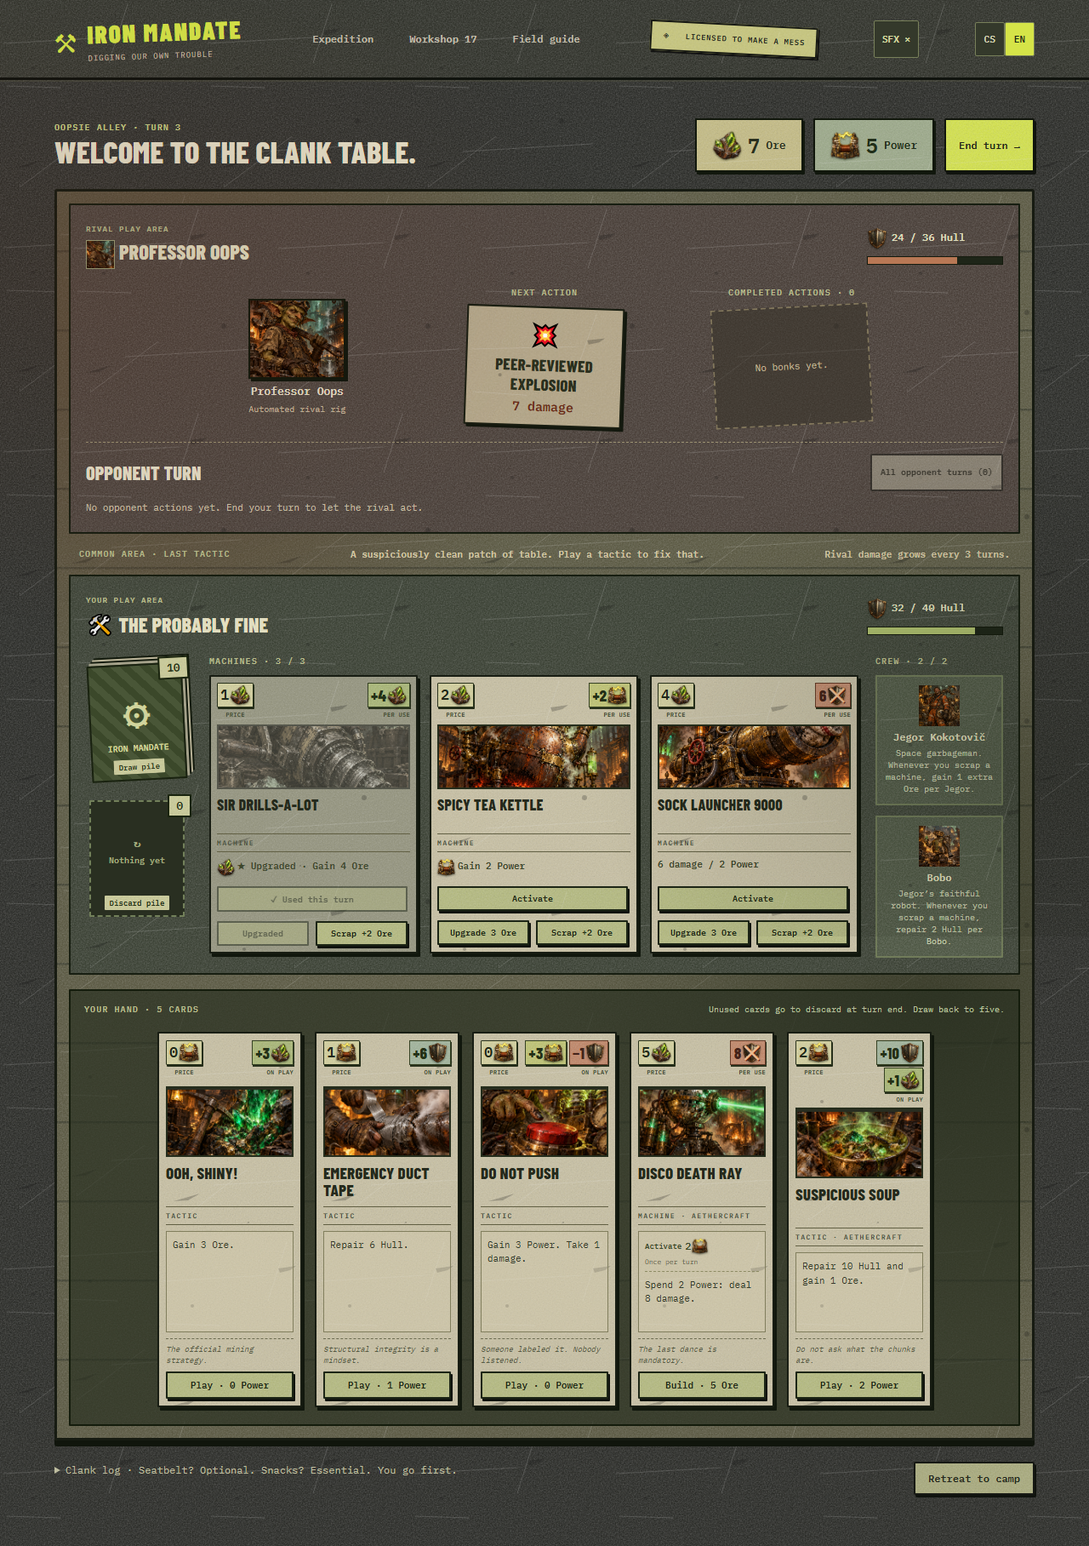
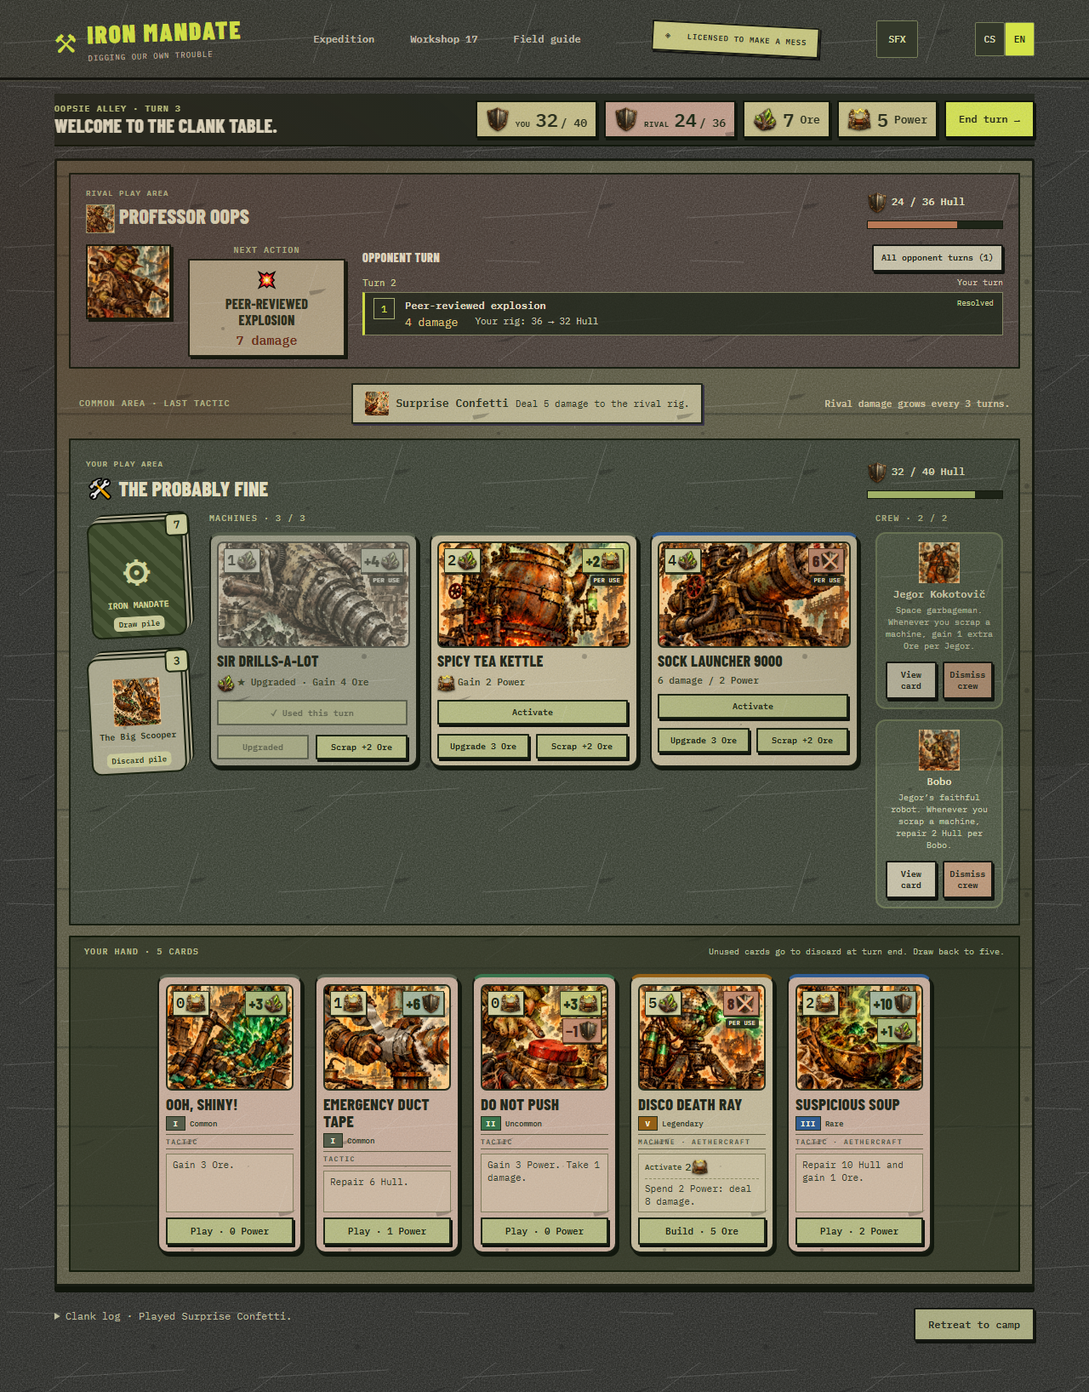
Lighter JPG art, bigger card previews, compact battle table, card art overlay

diff --git a/index.html b/index.html
@@ -1,3 +1,3 @@
 <!doctype html>
-<html lang="en"><head><meta charset="utf-8"><meta name="viewport" content="width=device-width,initial-scale=1"><title>Iron Mandate</title><link rel="stylesheet" href="css/style.css"><link rel="stylesheet" href="css/playful.css"><link rel="stylesheet" href="css/table.css"><link rel="stylesheet" href="css/portrait.css"><link rel="stylesheet" href="css/punk.css"><link rel="stylesheet" href="css/locale.css"><link rel="stylesheet" href="css/opponent.css"><link rel="stylesheet" href="css/painted.css"><link rel="stylesheet" href="css/resource-icons.css"><link rel="stylesheet" href="css/sound.css"><link rel="stylesheet" href="css/card-layout.css"><link rel="stylesheet" href="css/rarity.css"><link rel="stylesheet" href="css/crew-management.css"></head>
-<body><header><a class="brand" href="#" aria-label="Iron Mandate home">⚒ <span>IRON MANDATE<small>DIGGING OUR OWN TROUBLE</small></span></a><nav><button data-view="campaign">Expedition</button><button data-view="collection">Workshop <span id="collection-count"></span></button><button id="help">Field guide</button></nav><div class="pilot">◈ &nbsp; LICENSED TO MAKE A MESS</div></header><main id="app"></main><dialog id="guide"><button class="close" aria-label="Close guide">×</button><div class="eyebrow">PROSPECTOR'S HANDBOOK</div><h2>Welcome, future workplace incident.</h2><p>Destroy the rival rig before it destroys yours. Each turn, draw to five cards and gain 3 Power. Ore carries over; Power refreshes each turn.</p><p><b>Build</b> machines with Ore. Each machine activates once per turn, starting on the turn after it is built. Drills produce Ore, boilers produce Power, and weapons damage the rival rig.</p><p>Your rig holds three machines and two crew. Upgrade machines for 3 Ore to improve their output. Scrap a machine for 1 Ore to free its slot. Crew bonuses stack.</p><p>Tactics cost Power and work immediately. End your turn to let the rival act. Your discard pile reshuffles when your draw pile runs out.</p><p>Win to choose a reward. In the Workshop, customize your 15-card deck, up to two copies per card. Progress saves in this browser.</p></dialog><div id="toast" role="status"></div><script src="js/game.js"></script><script src="js/salvage-crew.js"></script><script src="js/table.js"></script><script src="js/portrait.js"></script><script src="js/punk.js"></script><script src="js/opponent.js"></script><script src="js/painted.js"></script><script src="js/resource-icons.js"></script><script src="js/salvage-actions.js"></script><script src="js/sound.js"></script><script src="js/card-layout.js"></script><script src="js/rarity.js"></script><script src="js/workshop-detail.js"></script><script src="js/crew-management.js"></script><script src="js/locale.js"></script></body></html>
+<html lang="en"><head><meta charset="utf-8"><meta name="viewport" content="width=device-width,initial-scale=1"><title>Iron Mandate</title><link rel="stylesheet" href="css/style.css"><link rel="stylesheet" href="css/playful.css"><link rel="stylesheet" href="css/table.css"><link rel="stylesheet" href="css/portrait.css"><link rel="stylesheet" href="css/punk.css"><link rel="stylesheet" href="css/locale.css"><link rel="stylesheet" href="css/opponent.css"><link rel="stylesheet" href="css/painted.css"><link rel="stylesheet" href="css/resource-icons.css"><link rel="stylesheet" href="css/sound.css"><link rel="stylesheet" href="css/card-layout.css"><link rel="stylesheet" href="css/rarity.css"><link rel="stylesheet" href="css/crew-management.css"><link rel="stylesheet" href="css/card-preview.css"><link rel="stylesheet" href="css/card-types.css"><link rel="stylesheet" href="css/battle-compact.css"><link rel="stylesheet" href="css/card-art.css"></head>
+<body><header><a class="brand" href="#" aria-label="Iron Mandate home">⚒ <span>IRON MANDATE<small>DIGGING OUR OWN TROUBLE</small></span></a><nav><button data-view="campaign">Expedition</button><button data-view="collection">Workshop <span id="collection-count"></span></button><button id="help">Field guide</button></nav><div class="pilot">◈ &nbsp; LICENSED TO MAKE A MESS</div></header><main id="app"></main><dialog id="guide"><button class="close" aria-label="Close guide">×</button><div class="eyebrow">PROSPECTOR'S HANDBOOK</div><h2>Welcome, future workplace incident.</h2><p>Destroy the rival rig before it destroys yours. Each turn, draw to five cards and gain 3 Power. Ore carries over; Power refreshes each turn.</p><p><b>Build</b> machines with Ore. Each machine activates once per turn, starting on the turn after it is built. Drills produce Ore, boilers produce Power, and weapons damage the rival rig.</p><p>Your rig holds three machines and two crew. Upgrade machines for 3 Ore to improve their output. Scrap a machine for 1 Ore to free its slot. Crew bonuses stack.</p><p>Tactics cost Power and work immediately. End your turn to let the rival act. Your discard pile reshuffles when your draw pile runs out.</p><p>Win to choose a reward. In the Workshop, customize your 15-card deck, up to two copies per card. Progress saves in this browser.</p></dialog><div id="toast" role="status"></div><script src="js/game.js"></script><script src="js/salvage-crew.js"></script><script src="js/table.js"></script><script src="js/portrait.js"></script><script src="js/punk.js"></script><script src="js/opponent.js"></script><script src="js/painted.js"></script><script src="js/resource-icons.js"></script><script src="js/salvage-actions.js"></script><script src="js/sound.js"></script><script src="js/card-layout.js"></script><script src="js/rarity.js"></script><script src="js/workshop-detail.js"></script><script src="js/crew-management.js"></script><script src="js/card-preview.js"></script><script src="js/battle-compact.js"></script><script src="js/locale.js"></script></body></html>

diff --git a/css/battle-compact.css b/css/battle-compact.css
@@ -1,0 +1,62 @@
+/* Denser battle table: sticky turn bar, one-row rival area, slim hand cards. */
+.battle-top{position:sticky;top:0;z-index:6;background:#24291ff5;backdrop-filter:blur(8px);margin:0 0 14px;padding:8px 0;border-bottom:2px solid #11180c}
+.battle-top h2{font-size:22px}
+.battle-top .resources{gap:8px}
+.battle-top .resource{padding:4px 10px}
+.battle-top .resource>.resource-icon{width:28px;height:28px}
+.battle-top .resource b{font-size:22px}
+.battle-top #end{min-height:44px}
+.hull-chip>span{display:flex;align-items:baseline;gap:3px}
+.hull-chip small{font-size:9px;letter-spacing:.5px;text-transform:uppercase;margin-right:3px}
+.hull-chip.hull-rival{background-color:#c09a86}
+
+/* Rival area: portrait, next action and the live opponent turn side by side. */
+.opponent-side{padding:12px 18px}
+.opponent-side .table-status{margin-bottom:8px}
+.opponent-layout{grid-template-columns:auto auto minmax(0,1fr);gap:20px;max-width:none;align-items:start}
+.rival-rig>strong,.rival-rig>span:last-child,.opponent-layout .action-pile{display:none}
+.rival-portrait .painted-art{width:96px;height:84px}
+.intent-zone .zone-label{margin-bottom:4px}
+.intent-card{min-height:0;padding:8px 14px;transform:none}
+.intent-card .intent-icon{font-size:20px}
+.intent-card h3{font-size:16px}
+.opponent-layout .opponent-sequence{margin:0;padding:0;border:0}
+.opponent-layout .sequence-heading{margin-bottom:6px}
+.opponent-layout .sequence-heading h3{font-size:14px;letter-spacing:.5px}
+.opponent-layout .sequence-heading button{min-height:32px;padding:4px 9px}
+.opponent-layout .opponent-turn-label{margin:4px 0}
+.opponent-layout .opponent-event{padding:6px 10px}
+.opponent-layout .event-effect{margin-top:3px}
+
+/* Hand: the big preview holds the full card, so hand cards drop flavor and spacing. */
+.hand-zone{margin-top:12px;padding-top:10px}
+.hand-zone .printed-card .art{height:72px}
+.hand-zone .printed-card h3{min-height:0;margin:6px 0 3px}
+.hand-zone .printed-card .type{min-height:0;padding:3px 0;margin-bottom:5px}
+.hand-zone .printed-card .rules-box{min-height:0;padding:5px 7px;margin-bottom:6px}
+.hand-zone .printed-card .rules-box p{line-height:1.35}
+.hand-zone .printed-card .activation-line{margin-bottom:4px;padding-bottom:4px}
+.hand-zone .printed-card .once-per-turn,.hand-zone .printed-card .flavor{display:none}
+.hand-zone .printed-card .rarity-label{margin-bottom:3px}
+
+@media(max-width:650px){
+ .battle-top{padding:6px 4px 8px;margin:0}
+ .battle-top .resources{grid-template-columns:repeat(4,1fr) 1.3fr;gap:5px}
+ .battle-top .resource{padding:4px;flex-direction:column;gap:1px;font-size:9px}
+ .battle-top .resource>.resource-icon{width:20px;height:20px}
+ .battle-top .resource b{font-size:17px}
+ .battle-top #end{font-size:12px;padding:6px}
+ .hull-chip small{display:none}
+ .opponent-layout{grid-template-columns:auto minmax(0,1fr);gap:10px}
+ .opponent-layout .opponent-sequence{grid-column:1/-1}
+ .rival-rig{grid-column:auto;flex-direction:column}
+ .rival-portrait .painted-art{width:64px;height:56px}
+ .intent-card{max-width:none}
+}
+
+/* Built machines: the preview shows type and rarity, so the table card keeps only what you act on. */
+body.in-battle main{padding-top:16px}
+.installed .printed-card .type,.installed .printed-card .rarity-label{display:none}
+.installed .printed-card h3{min-height:0;margin:6px 0 4px}
+.installed .printed-card .installed-output{min-height:0;margin:2px 0 6px}
+.player-side .table-status{margin-bottom:8px}

diff --git a/js/card-layout.js b/js/card-layout.js
@@ -19,12 +19,12 @@ function cardEffects(key,level=0){
 function effectIcon(kind){return kind==='damage'?`<span class="damage-icon">${resourceIcon('hull')}<span aria-hidden="true">✕</span></span>`:resourceIcon(kind)}
 function effectBadges(key,level=0){
  const effect=cardEffects(key,level);
- return `<div class="card-yield"><div class="yield-values">${effect.items.map(item=>`<span class="effect-badge effect-${item.kind} ${item.sign==='−'?'effect-loss':''}" aria-label="${item.sign}${item.amount} ${item.kind==='damage'?'damage':item.kind==='hull'?'Hull':item.kind==='ore'?'Ore':'Power'}"><b>${item.sign}${item.amount}</b>${effectIcon(item.kind)}</span>`).join('')}</div><span class="effect-timing">${effect.timing}</span></div>`;
+ return `<div class="card-yield"><div class="yield-values">${effect.items.map(item=>`<span class="effect-badge effect-${item.kind} ${item.sign==='−'?'effect-loss':''}" aria-label="${item.sign}${item.amount} ${item.kind==='damage'?'damage':item.kind==='hull'?'Hull':item.kind==='ore'?'Ore':'Power'}"><b>${item.sign}${item.amount}</b>${effectIcon(item.kind)}</span>`).join('')}</div><span class="effect-timing${effect.timing==='ON PLAY'?' timing-on-play':''}">${effect.timing}</span></div>`;
 }
 card=function(key,action='',extra=''){
  const c=CARDS[key],kind=c.type==='tactic'?'power':'ore',label=kind==='ore'?'Ore':'Power';
  const activation=c.type==='machine'?`<div class="activation-line"><span>Activate</span><span class="activation-payment">${c.activation?`${c.activation} ${resourceIcon('power')}`:'Free'}</span><span class="once-per-turn">Once per turn</span><span class="once-per-turn">New machines wait one turn</span></div>`:'';
- return `<article class="card printed-card ${c.theme||c.type}" data-card-key="${key}"><div class="card-corners"><div class="price-corner"><span class="cost illustrated-cost" aria-label="${c.cost} ${label}"><b>${c.cost}</b>${resourceIcon(kind)}</span><span class="price-label">PRICE</span></div>${effectBadges(key)}</div><div class="art" aria-hidden="true"><span class="card-icon">${c.symbol}</span></div><h3>${c.name}</h3><div class="type">${c.type}${c.theme?' · Aethercraft':''}</div><div class="rules-box">${activation}<p>${c.text}</p></div><div class="flavor">${FLAVORS[key]||''}</div>${action}${extra}</article>`;
+ return `<article class="card printed-card ${c.theme||c.type}" data-card-key="${key}" data-card-type="${c.type}"><div class="art"><span class="card-icon" aria-hidden="true">${c.symbol}</span><div class="card-corners"><div class="price-corner"><span class="cost illustrated-cost" aria-label="${c.cost} ${label}"><b>${c.cost}</b>${resourceIcon(kind)}</span><span class="price-label">PRICE</span></div>${effectBadges(key)}</div></div><h3>${c.name}</h3><div class="type">${c.type}${c.theme?' · Aethercraft':''}</div><div class="rules-box">${activation}<p>${c.text}</p></div><div class="flavor">${FLAVORS[key]||''}</div>${action}${extra}</article>`;
 };
 const battleBeforeCardLayout=renderBattle;
 renderBattle=function(){

diff --git a/js/locale.js b/js/locale.js
@@ -1,6 +1,6 @@
 /* Localize rendered text only: card IDs, save data, and rules remain language-neutral. */
 const CZECH={
- 'Expedition':'Výprava','Workshop':'Dílna','Field guide':'Průvodce','DIGGING OUR OWN TROUBLE':'KOPÁME SI VLASTNÍ PRŮŠVIH','LICENSED TO MAKE A MESS':'POVOLENÍ DĚLAT BORDEL',
+ 'Expedition':'Výprava','YOU':'TY','RIVAL':'SOUPEŘ','Workshop':'Dílna','Field guide':'Průvodce','DIGGING OUR OWN TROUBLE':'KOPÁME SI VLASTNÍ PRŮŠVIH','LICENSED TO MAKE A MESS':'POVOLENÍ DĚLAT BORDEL',
  "PROSPECTOR'S HANDBOOK":'PŘÍRUČKA PROSPEKTORA','Welcome, future workplace incident.':'Vítej, budoucí pracovní úraze.',
  'Destroy the rival rig before it destroys yours. Each turn, draw to five cards and gain 3 Power. Ore carries over; Power refreshes each turn.':'Znič soupeřův stroj dřív, než zničí ten tvůj. Každé kolo si dober do pěti karet a získej 3 energii. Ruda zůstává do dalších kol; energie se každé kolo obnoví.',
  ' machines with Ore. Each machine activates once per turn, starting on the turn after it is built. Drills produce Ore, boilers produce Power, and weapons damage the rival rig.':' stroje za rudu. Každý stroj můžeš aktivovat jednou za kolo, a to až od následujícího kola po postavení. Vrtáky těží rudu, kotle vyrábějí energii a zbraně poškozují soupeřův stroj.',
@@ -85,7 +85,7 @@ function czechResourceForm(amount,kind){
 function czechQuantities(text){
  return text.replace(/(\d+)\s+(?:ruda|rudu|rudy|rud)(?![\p{L}])/gu,(_,n)=>`${n} ${czechResourceForm(n,'ore')}`)
   .replace(/(\d+)\s+(?:energie|energii)(?![\p{L}])/gu,(_,n)=>`${n} ${czechResourceForm(n,'power')}`)
-  .replace(/(\d+)\s+karet(?![\p{L}])/gu,(_,n)=>`${n} ${Number(n)===1?'karta':Number(n)>=2&&Number(n)<=4?'karty':'karet'}`);
+  .replace(/(\d+)\s+(karet|KARET)(?![\p{L}])/gu,(_,n,word)=>{const form=Number(n)===1?'karta':Number(n)>=2&&Number(n)<=4?'karty':'karet';return `${n} ${word==='KARET'?form.toUpperCase():form}`});
 }
 function translateText(value,heroTitle=false){
  if(language!=='cs')return value;

diff --git a/css/card-art.css b/css/card-art.css
@@ -1,0 +1,26 @@
+/* Price and effect badges sit on top of the art, so the picture takes the full top of the card. */
+.printed-card .card-corners{position:absolute;top:6px;left:6px;right:6px;z-index:2;min-height:0;margin:0;pointer-events:none}
+.printed-card .art .card-corners .price-label,.printed-card .art .card-corners .effect-timing.timing-on-play{display:none}
+.printed-card .art .card-corners .effect-timing{margin-top:3px;padding:1px 4px;background:#1c2214d9;color:#e6e2c4;border-radius:3px;font-size:7px}
+.printed-card .art .card-corners .effect-badge,.printed-card .art .card-corners .illustrated-cost{box-shadow:1px 2px 0 #11170bcc}
+
+.printed-card .art{height:165px}
+.hand-zone .printed-card .art{height:125px}
+.installed .card.printed-card .art{height:125px}
+#discard-view .printed-card .art{height:150px}
+#card-inspector .card.printed-card .art{height:min(360px,44dvh)}
+#card-inspector .printed-card .card-corners{top:10px;left:10px;right:10px;min-height:0;margin:0}
+#card-inspector .printed-card .art .card-corners .effect-timing{font-size:10px;padding:2px 6px}
+
+/* Rounded table pieces to match the cards. */
+.table-pile,.card-slot,.crew-slot,.crew-mini{border-radius:12px}
+.table-pile strong,.pile-name{border-radius:6px}
+
+@media(max-width:650px){
+ .printed-card .card-corners{top:4px;left:4px;right:4px}
+ .hand-zone .printed-card .art{height:112px}
+ .installed .card.printed-card .art,.installed .card .art:has(.painted-art){height:88px}
+ #discard-view .printed-card .art{height:120px}
+ .printed-card .art .card-corners .effect-timing{font-size:6px;padding:1px 3px}
+ .table-pile,.card-slot,.crew-slot,.crew-mini{border-radius:9px}
+}

diff --git a/js/card-preview.js b/js/card-preview.js
@@ -1,0 +1,22 @@
+/* Tap card art or a crew portrait during battle to open the large card preview. */
+function makePreviewTarget(el,label,open){
+ el.classList.add('preview-target');el.tabIndex=0;el.setAttribute('role','button');el.setAttribute('aria-label',label);el.removeAttribute('aria-hidden');
+ el.onclick=event=>{event.stopPropagation();open()};
+ el.onkeydown=event=>{if(event.key==='Enter'||event.key===' '){event.preventDefault();open()}};
+}
+const battleBeforeCardPreview=renderBattle;
+renderBattle=function(){
+ battleBeforeCardPreview();
+ app.querySelectorAll('.hand-zone .card .art').forEach((el,i)=>makePreviewTarget(el,`View ${CARDS[battle.hand[i]].name}`,()=>inspectBattleCard('hand',i)));
+ app.querySelectorAll('.installed .card .art').forEach((el,i)=>makePreviewTarget(el,`View ${CARDS[battle.machines[i].key].name}`,()=>inspectBattleCard('machine',i)));
+ app.querySelectorAll('.crew-mini>span').forEach((el,i)=>makePreviewTarget(el,`View ${CARDS[battle.crew[i]].name}`,()=>inspectHiredCrew(i)));
+ const tactic=app.querySelector('.last-tactic>.painted-art');
+ if(tactic&&battle.lastTactic){const key=battle.lastTactic;makePreviewTarget(tactic,`View ${CARDS[key].name}`,()=>showWorkshopCard(key))}
+};
+const discardBeforeCardPreview=inspectDiscard;
+inspectDiscard=function(){
+ discardBeforeCardPreview();
+ const keys=[...battle.discard].reverse();
+ document.querySelectorAll('#discard-view .card .art').forEach((el,i)=>makePreviewTarget(el,`View ${CARDS[keys[i]].name}`,()=>showWorkshopCard(keys[i])));
+};
+render();

diff --git a/css/painted.css b/css/painted.css
@@ -11,7 +11,7 @@
 .pile-face>.discard-symbol .painted-art{width:55px;height:55px}
 .crew-mini>span .painted-art{width:48px;height:48px}
 .last-tactic>.painted-art{width:28px;height:28px}
-.hero-art{background:#252c20 url('../assets/images/handdrawn/hero.png') center / cover;min-height:355px;box-shadow:7px 8px 0 #10130e}
+.hero-art{background:#252c20 url('../assets/images/handdrawn/hero.jpg') center / cover;min-height:355px;box-shadow:7px 8px 0 #10130e}
 .hero-art:before{inset:0;width:100%;height:100%;clip-path:none;background:linear-gradient(0deg,#0c140be0,transparent 25%);z-index:1}
 .hero-art:after,.hero-art>.rig,.hero-art>.floating-rock,.hero-art>.scene-sticker{display:none}
 .hero-art .art-caption{z-index:2;background:#172112cc;padding:5px 7px;right:8px;bottom:8px;font-size:8px}

diff --git a/js/battle-compact.js b/js/battle-compact.js
@@ -1,0 +1,11 @@
+/* Denser battle table: sticky turn bar with both Hulls, one-row rival area, slim hand cards. */
+const battleBeforeCompact=renderBattle;
+renderBattle=function(){
+ battleBeforeCompact();
+ const b=battle,e=ENEMIES[b.enemy];
+ const hull=(who,now,max,cls)=>`<div class="resource hull-chip ${cls}" aria-label="${who} · Hull ${now} / ${max}">${resourceIcon('hull')}<span><small>${who}</small><b>${now}</b>/ ${max}</span></div>`;
+ app.querySelector('.battle-top .resources').insertAdjacentHTML('afterbegin',hull('YOU',b.hull,40,'hull-you')+hull('RIVAL',b.foe,e.hull,'hull-rival'));
+ const layout=app.querySelector('.opponent-layout'),sequence=document.querySelector('#opponent-sequence');
+ if(layout&&sequence)layout.append(sequence);
+};
+render();

diff --git a/css/card-types.css b/css/card-types.css
@@ -1,0 +1,9 @@
+/* Muted per-type card stock and rounded corners. */
+.card.printed-card{border-radius:12px}
+.card.printed-card[data-card-type="machine"]{background-color:#c3b896}
+.card.printed-card[data-card-type="tactic"]{background-color:#c8ab98}
+.card.printed-card[data-card-type="crew"]{background-color:#abb69a}
+.card.printed-card .art{border-radius:7px}
+.installed.exhausted .card.printed-card{background-color:#92927b}
+#card-inspector .card.printed-card{border-radius:16px}
+@media(max-width:650px){.installed .card.printed-card,.hand-zone .card.printed-card{border-radius:9px}.card.printed-card .art{border-radius:5px}}

diff --git a/css/card-preview.css b/css/card-preview.css
@@ -1,0 +1,10 @@
+/* Larger card inspector, plus click targets that open it from the battle table. */
+#card-inspector{width:min(94vw,500px);max-width:none;max-height:94dvh}
+#card-inspector .card{padding:18px}
+#card-inspector .card .art,#card-inspector .card .art:has(.painted-art){height:min(300px,38dvh)}
+#card-inspector .card h3{font-size:33px}
+#card-inspector .printed-card .rules-box p{font-size:17px}
+#card-inspector .flavor{font-size:14px}
+.preview-target{cursor:zoom-in}
+.preview-target:focus-visible{outline:3px solid #d5e448;outline-offset:2px}
+@media(hover:hover){.preview-target:hover{filter:brightness(1.12)}}

diff --git a/js/painted.js b/js/painted.js
@@ -1,5 +1,5 @@
 /* Generated raster artwork: small inline images also serve crew/pile portraits. */
-function paintedAsset(key){return `<img class="painted-art" data-art="${key}" src="assets/images/handdrawn/${key}.png" alt="" loading="lazy" decoding="async">`}
+function paintedAsset(key){return `<img class="painted-art" data-art="${key}" src="assets/images/handdrawn/${key}.jpg" alt="" loading="lazy" decoding="async">`}
 for(const key of Object.keys(CARDS))CARDS[key].symbol=paintedAsset(key);
 ENEMIES[0].icon=paintedAsset('bert');
 ENEMIES[1].icon=paintedAsset('mechanic');

diff --git a/tools/convert_handdrawn.py b/tools/convert_handdrawn.py
@@ -1,0 +1,58 @@
+"""Create web-friendly JPG copies of the hand-drawn PNG artwork.
+
+The source PNGs stay in place (and are git-ignored); the game loads the JPGs.
+Usage: python tools/convert_handdrawn.py [--quality 85] [--max-size 800]
+                                         [--smooth 7] [--thicken 0.6] [--blur 0.5] [--brightness 0.93] [--contrast 1.15]
+Defaults are the shipped look; pass --smooth 0 --thicken 0 --blur 0 --brightness 1 --contrast 1 for a plain copy.
+--max-size caps the longest side in pixels (0 keeps the original size).
+--smooth is a median filter size (odd, 0 = off) that removes speckle and hatching noise but keeps solid lines.
+--thicken blends in a dark-spreading pass (0 = off, 1 = full) so fine ink lines survive small display sizes.
+--blur is a Gaussian radius in output pixels; --brightness and --contrast are multipliers (1 = unchanged).
+"""
+import argparse
+from pathlib import Path
+
+from PIL import Image, ImageEnhance, ImageFilter
+
+ART_DIR = Path(__file__).resolve().parent.parent / "assets" / "images" / "handdrawn"
+
+
+def process(im, max_size=800, smooth=0, thicken=0.0, blur=0.0, brightness=1.0, contrast=1.0):
+    im = im.convert("RGB")
+    if smooth:
+        im = im.filter(ImageFilter.MedianFilter(smooth))
+    if thicken:
+        # Done at source resolution: spreading dark pixels before downscaling reads as slightly bolder ink.
+        im = Image.blend(im, im.filter(ImageFilter.MinFilter(3)), thicken)
+    if max_size:
+        im.thumbnail((max_size, max_size), Image.LANCZOS)
+    if blur:
+        im = im.filter(ImageFilter.GaussianBlur(blur))
+    if brightness != 1:
+        im = ImageEnhance.Brightness(im).enhance(brightness)
+    if contrast != 1:
+        im = ImageEnhance.Contrast(im).enhance(contrast)
+    return im
+
+
+def main():
+    parser = argparse.ArgumentParser()
+    parser.add_argument("--quality", type=int, default=85)
+    parser.add_argument("--max-size", type=int, default=800)
+    parser.add_argument("--smooth", type=int, default=7)
+    parser.add_argument("--thicken", type=float, default=0.6)
+    parser.add_argument("--blur", type=float, default=0.5)
+    parser.add_argument("--brightness", type=float, default=0.93)
+    parser.add_argument("--contrast", type=float, default=1.15)
+    args = parser.parse_args()
+
+    for png in sorted(ART_DIR.glob("*.png")):
+        jpg = png.with_suffix(".jpg")
+        with Image.open(png) as im:
+            out = process(im, args.max_size, args.smooth, args.thicken, args.blur, args.brightness, args.contrast)
+        out.save(jpg, "JPEG", quality=args.quality, optimize=True, progressive=True)
+        print(f"{png.name}: {png.stat().st_size // 1024} KB -> {jpg.name}: {jpg.stat().st_size // 1024} KB")
+
+
+if __name__ == "__main__":
+    main()
